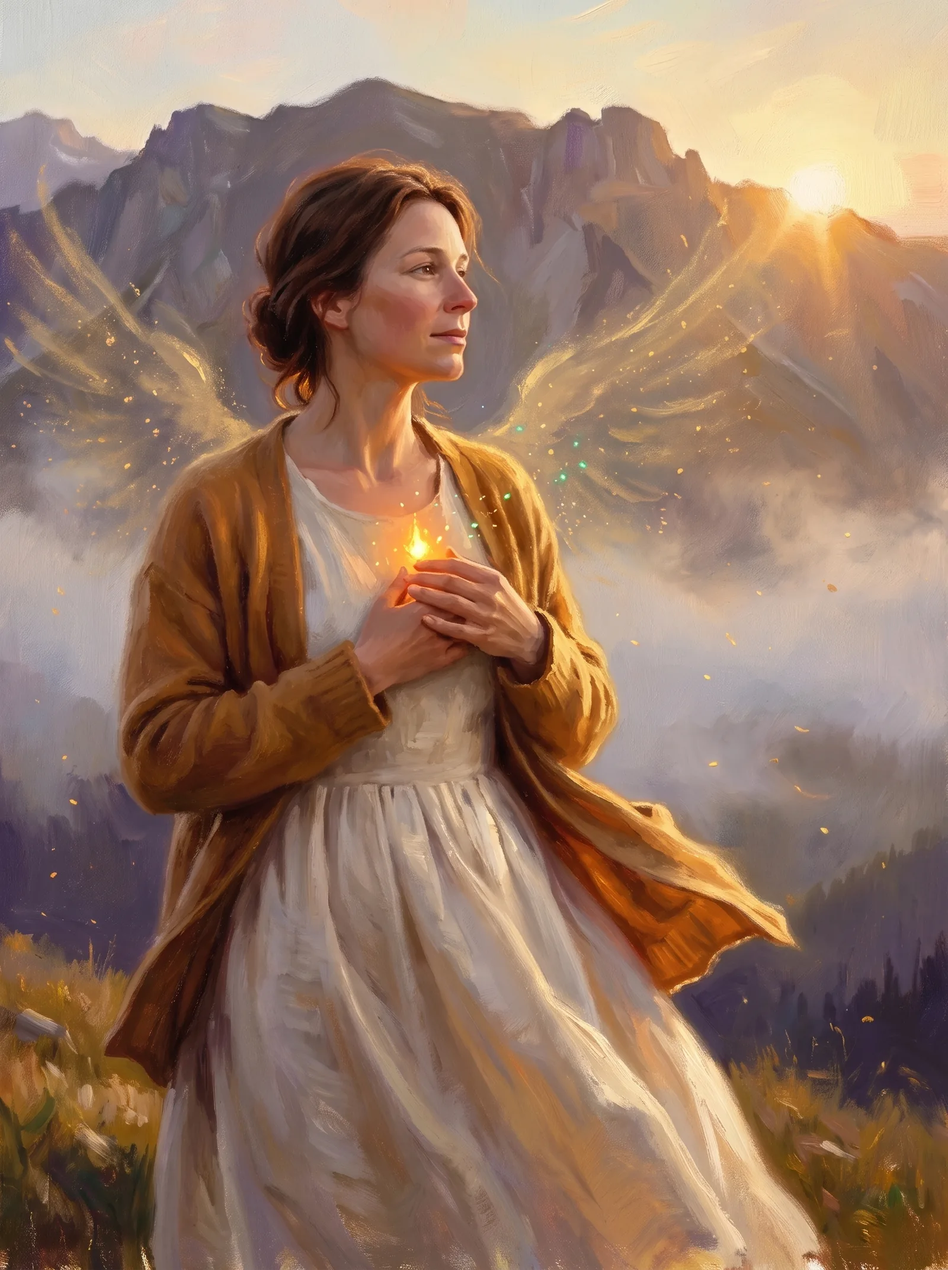
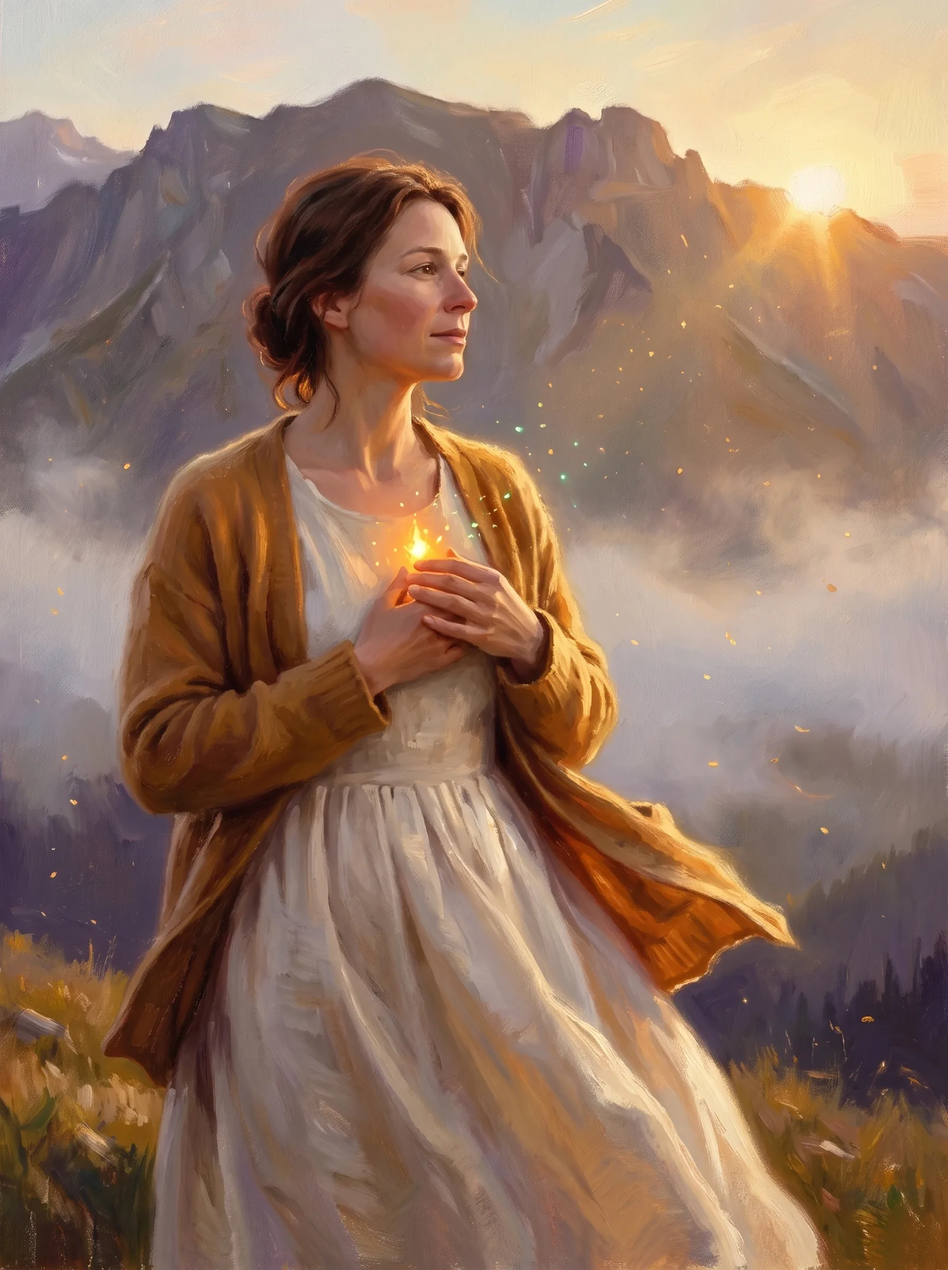
MET-621 · Нова Жена V2.3 · МО3-ризолвър (Opus 4.8) по 4-та дума 13.09 + деплой new-woman
A1 hero-now без криле · A2 будечители по нов ред · A3 Пътят отгоре надолу + пулс + тап-етикет ·
A4 hero на 2 екрана (въпрос+фигура · трите белега като карти) + CTA „Кандидатствайте" ·
A5 циферблатът по СКРОЛ (таймерът махнат) + тап · A6 повече въздух в картите на деня ·
A7 benefit образ · A8 разписанието с 5 образа · A9 БРОЙ десктоп 30 000 ·
A10 формата РЕАЛНА (шев nova-zhena-seam.js v0.2.1 → n8n /webhook/new-woman) · цените СКРИТИ ·
4 варианта без цена + CTA-блок „Попълнете формата и:" + чекбокс „свържете се" · static-checks MED-1 fix.
Деплой: new-woman/index.html (абсолютни /img/ пътища · robots noindex за 3 тестери).
ЧАКА ДУМА (не пипано): „Спирачка" (→ „блукаш"?) · частиковите криле на hero-анимацията.
Verify: Browser pane 390×844 · console 0 · scrollWidth 390 · hero FPS 59.9 · 7 фигури ·
формата→шев payload OK (variant/contact) · reduced 5/5 постери. Ревю 2bcf3fe8 (PASS-WITH-NOTES).

diff --git a/new-woman/index.html b/new-woman/index.html
@@ -500,7 +500,7 @@ footer .sig{font-family:var(--serif);font-size:1.3rem;color:var(--gold);font-sty
       <div class="stage mfig tapable" id="fig-hero" data-bleed="mobile" data-tap>
         <div class="glow"></div>
         <canvas data-фигура="hero" role="img" aria-label="Героинята: от пясъчния часовник на умората към жена с искра в гърдите и криле"></canvas>
-        <img class="poster" src="img/nz3/hero-now.webp" alt="Героинята при първата светлина — с искра в гърдите" width="896" height="1200" hidden decoding="async">
+        <img class="poster" src="/img/nz3/hero-now.webp" alt="Героинята при първата светлина — с искра в гърдите" width="896" height="1200" hidden decoding="async">
         <div class="tap" aria-hidden="true"><i></i><span>докоснете · преди → сега</span></div>
         <div class="toggle" id="hero-toggle" aria-label="Преди и сега"><button data-s="0">Преди</button><button data-s="1" class="on">Сега</button></div>
       </div>
@@ -518,9 +518,9 @@ footer .sig{font-family:var(--serif);font-size:1.3rem;color:var(--gold);font-sty
   <div class="wrap">
     <p class="lead" data-reveal>Три белега на пробуждането:</p>
     <div class="mcards">
-      <div class="mcard" data-reveal><img src="img/nz3/scale-dawn.webp" alt="" width="600" height="600" loading="lazy" decoding="async"><div class="tx"><span class="n">1</span><p><b>Спираме безсмисленото страдание</b> — на себе си и на околните.</p></div></div>
-      <div class="mcard" data-reveal><img src="img/nz3/presence.webp" alt="" width="600" height="600" loading="lazy" decoding="async"><div class="tx"><span class="n">2</span><p><b>Спираме да се дразним, изнервяме и побъркваме</b> от ситуациите.</p></div></div>
-      <div class="mcard" data-reveal><img src="img/nz3/benefit.webp" alt="" width="600" height="600" loading="lazy" decoding="async"><div class="tx"><span class="n">3</span><p><b>Тиха радост</b> през повечето време. <b>Спокойствие</b> — през цялото.</p></div></div>
+      <div class="mcard" data-reveal><img src="/img/nz3/scale-dawn.webp" alt="" width="600" height="600" loading="lazy" decoding="async"><div class="tx"><span class="n">1</span><p><b>Спираме безсмисленото страдание</b> — на себе си и на околните.</p></div></div>
+      <div class="mcard" data-reveal><img src="/img/nz3/presence.webp" alt="" width="600" height="600" loading="lazy" decoding="async"><div class="tx"><span class="n">2</span><p><b>Спираме да се дразним, изнервяме и побъркваме</b> от ситуациите.</p></div></div>
+      <div class="mcard" data-reveal><img src="/img/nz3/benefit.webp" alt="" width="600" height="600" loading="lazy" decoding="async"><div class="tx"><span class="n">3</span><p><b>Тиха радост</b> през повечето време. <b>Спокойствие</b> — през цялото.</p></div></div>
     </div>
   </div>
 </section>
@@ -532,7 +532,7 @@ footer .sig{font-family:var(--serif);font-size:1.3rem;color:var(--gold);font-sty
     <h2 data-reveal>Тя не е спала. <em>Пак.</em></h2>
     <p class="lead" data-reveal>Дразни се от дребните неща. Побърква се от големите. Говори с всички — освен със себе си. Отлага себе си „за по-късно“, а по-късно е студено и на телефон.</p>
     <div class="scene" data-reveal>
-      <img src="img/nz3/hero-before.webp" alt="Жена в 23:41 в тъмна кухня, осветена само от телефона" width="896" height="1195" loading="lazy" decoding="async">
+      <img src="/img/nz3/hero-before.webp" alt="Жена в 23:41 в тъмна кухня, осветена само от телефона" width="896" height="1195" loading="lazy" decoding="async">
     </div>
     <div class="notes" id="notes">
       <div class="note"><span class="dot"></span><span class="t">23:41</span><span class="m">Телефонът свети. Умът не спира.</span></div>
@@ -553,16 +553,16 @@ footer .sig{font-family:var(--serif);font-size:1.3rem;color:var(--gold);font-sty
   <div class="mfig tapable" id="fig-path" data-bleed="always" data-tap>
     <!-- v2.2 · Екран 2 (дума 12.09: „да запазим този ефект … мегаяк и мазен“): картата на осемте етапа ЗАД живия път ·
          същата сцена в стил B (img/nz3/path-poster) · ?map=nz показва оригиналната акварелна карта img/nz/path-8.webp -->
-    <img class="map" id="pathmap" src="img/nz3/path-poster.webp" alt="" width="896" height="1195" loading="lazy" decoding="async" aria-hidden="true">
+    <img class="map" id="pathmap" src="/img/nz3/path-poster.webp" alt="" width="896" height="1195" loading="lazy" decoding="async" aria-hidden="true">
     <div class="mapveil" aria-hidden="true"></div>
     <canvas data-фигура="path" role="img" aria-label="Пътят на героинята: осем златни звезди по пътека нагоре — светват по скрол, искрата върви по пътя"></canvas>
-    <img class="poster" src="img/nz3/path-poster.webp" alt="Осем златни звезди по пътека нагоре над Пирин" width="896" height="1195" hidden loading="lazy" decoding="async">
+    <img class="poster" src="/img/nz3/path-poster.webp" alt="Осем златни звезди по пътека нагоре над Пирин" width="896" height="1195" hidden loading="lazy" decoding="async">
     <div class="stlabs" id="stlabs" aria-hidden="true"></div>
     <div class="tap" aria-hidden="true"><i></i><span>докоснете звезда или име — вижте етапа</span></div>
   </div>
   <div class="wrap">
     <div class="pathgrid">
-      <div class="mapcard" data-reveal="l" aria-hidden="true"><img src="img/nz3/path-poster.webp" alt="" width="896" height="1195" loading="lazy" decoding="async"></div>
+      <div class="mapcard" data-reveal="l" aria-hidden="true"><img src="/img/nz3/path-poster.webp" alt="" width="896" height="1195" loading="lazy" decoding="async"></div>
       <div class="stpanel" id="stpanel" data-reveal>
         <div class="stk"><div class="num" id="st-num">1</div><div><div class="nm" id="st-nm">РазЛичност</div><div class="mn" id="st-mn">се събужда Любка</div></div></div>
         <div class="ln" id="st-ln">„Приета съм такава, каквато съм.“</div>
@@ -582,7 +582,7 @@ footer .sig{font-family:var(--serif);font-size:1.3rem;color:var(--gold);font-sty
   </div>
   <div class="mfig tapable" id="fig-monster" data-bleed="always" data-tap>
     <canvas data-фигура="monster" role="img" aria-label="Трите сенки на Спирачката — вътрешна, външна, философска — се сглобяват по скрол; избраната се разпада в жарава и се събира като следващата"></canvas>
-    <img class="poster" src="img/nz3/monster-poster.webp" alt="Трите сенки на Спирачката" width="896" height="1195" hidden loading="lazy" decoding="async">
+    <img class="poster" src="/img/nz3/monster-poster.webp" alt="Трите сенки на Спирачката" width="896" height="1195" hidden loading="lazy" decoding="async">
     <div class="tap" aria-hidden="true"><i></i><span>докоснете — следващото лице</span></div>
   </div>
   <div class="wrap">
@@ -602,7 +602,7 @@ footer .sig{font-family:var(--serif);font-size:1.3rem;color:var(--gold);font-sty
         <span class="corner c1">✦</span><span class="corner c2">✦</span><span class="corner c3">✦</span><span class="corner c4">✦</span>
         <div class="inner">
           <div class="banner"><span>Чудовището</span></div>
-          <div class="art"><img src="img/nz/card-spirachka.webp" alt="Картата „Спирачката“ от деката" width="597" height="800" loading="lazy" decoding="async"></div>
+          <div class="art"><img src="/img/nz/card-spirachka.webp" alt="Картата „Спирачката“ от деката" width="597" height="800" loading="lazy" decoding="async"></div>
           <div class="body"><h3>Спирачката</h3><div class="rule"></div><p>Светът се мени по-бързо от усещанията ни — старите начини изморяват, а времето не стига.</p></div>
         </div>
       </div>
@@ -623,10 +623,10 @@ footer .sig{font-family:var(--serif);font-size:1.3rem;color:var(--gold);font-sty
   </div>
   <div class="mfig tapable" id="fig-scale" data-bleed="always" data-tap>
     <div class="dial" id="dial" aria-hidden="true">
-      <div class="port"><img class="storm" src="img/nz3/scale-storm.webp" alt="" width="896" height="1195" decoding="async"><img class="dawn" id="sc-dawn" src="img/nz3/scale-dawn.webp" alt="" width="896" height="1195" loading="lazy" decoding="async"></div>
+      <div class="port"><img class="storm" src="/img/nz3/scale-storm.webp" alt="" width="896" height="1195" decoding="async"><img class="dawn" id="sc-dawn" src="/img/nz3/scale-dawn.webp" alt="" width="896" height="1195" loading="lazy" decoding="async"></div>
     </div>
     <canvas data-фигура="dial" role="img" aria-label="Циферблатът на петте стъпала: стрелка от златни частици, искри по дъгата при всяка смяна, буря около циферблата, която става зора"></canvas>
-    <img class="poster" src="img/nz3/scale-dawn.webp" alt="Героинята на зазоряване в планинска поляна" width="896" height="1195" hidden loading="lazy" decoding="async">
+    <img class="poster" src="/img/nz3/scale-dawn.webp" alt="Героинята на зазоряване в планинска поляна" width="896" height="1195" hidden loading="lazy" decoding="async">
     <svg class="dialsvg" id="dialsvg" viewBox="0 0 320 320" aria-hidden="true"><g id="secs"></g></svg>
     <div class="tap" aria-hidden="true"><i></i><span>докоснете — спира · следващо</span></div>
   </div>
@@ -647,49 +647,49 @@ footer .sig{font-family:var(--serif);font-size:1.3rem;color:var(--gold);font-sty
       <div class="deck" data-reveal>
         <span class="corner c1">✦</span><span class="corner c2">✦</span><span class="corner c3">✦</span><span class="corner c4">✦</span>
         <div class="inner"><div class="banner"><span>Целта</span></div>
-        <div class="art"><img src="img/nz/card-vapros.webp" alt="" width="597" height="800" loading="lazy" decoding="async"></div>
+        <div class="art"><img src="/img/nz/card-vapros.webp" alt="" width="597" height="800" loading="lazy" decoding="async"></div>
         <div class="body"><h3>Твоят въпрос</h3><div class="rule"></div><p>„Искам да спя.“ „Искам да не се дразня.“ „Искам да съм себе си.“ — всяка тръгва от своето.</p></div></div>
       </div>
       <div class="deck" data-reveal>
         <span class="corner c1">✦</span><span class="corner c2">✦</span><span class="corner c3">✦</span><span class="corner c4">✦</span>
         <div class="inner"><div class="banner"><span>Чудовището</span></div>
-        <div class="art"><img src="img/nz/card-spirachka.webp" alt="" width="597" height="800" loading="lazy" decoding="async"></div>
+        <div class="art"><img src="/img/nz/card-spirachka.webp" alt="" width="597" height="800" loading="lazy" decoding="async"></div>
         <div class="body"><h3>Спирачката</h3><div class="rule"></div><p>Светът се мени по-бързо от усещанията ни — старите начини изморяват, а времето не стига.</p></div></div>
       </div>
       <div class="deck" data-reveal>
         <span class="corner c1">✦</span><span class="corner c2">✦</span><span class="corner c3">✦</span><span class="corner c4">✦</span>
         <div class="inner"><div class="banner"><span>Спокойният отговор</span></div>
-        <div class="art"><img src="img/nz/card-otgovor.webp" alt="" width="597" height="800" loading="lazy" decoding="async"></div>
+        <div class="art"><img src="/img/nz/card-otgovor.webp" alt="" width="597" height="800" loading="lazy" decoding="async"></div>
         <div class="body"><h3>Числото</h3><div class="rule"></div><p>Пет години по два часа сън — и осем часа след един концертен сеанс. Числото не убеждава. То се случва.</p></div></div>
       </div>
       <div class="deck" data-reveal>
         <span class="corner c1">✦</span><span class="corner c2">✦</span><span class="corner c3">✦</span><span class="corner c4">✦</span>
         <div class="inner"><div class="banner"><span>Цялото</span></div>
-        <div class="art"><img src="img/nz/card-rezultat.webp" alt="" width="597" height="800" loading="lazy" decoding="async"></div>
+        <div class="art"><img src="/img/nz/card-rezultat.webp" alt="" width="597" height="800" loading="lazy" decoding="async"></div>
         <div class="body"><h3>Трупата</h3><div class="rule"></div><p>Осем будители у една жена. Когато всички са будни, тя просто присъства — и всичко се нарежда.</p></div></div>
       </div>
       <div class="deck locked" data-reveal>
         <span class="corner c1">✦</span><span class="corner c2">✦</span><span class="corner c3">✦</span><span class="corner c4">✦</span>
         <div class="inner"><div class="banner"><span>Предизвикателство</span></div>
-        <div class="art"><img src="img/nz/card-zadacha.webp" alt="" width="597" height="800" loading="lazy" decoding="async"><div class="lock">🔒</div><div class="unl">Отключва се на ритрийта</div></div>
+        <div class="art"><img src="/img/nz/card-zadacha.webp" alt="" width="597" height="800" loading="lazy" decoding="async"><div class="lock">🔒</div><div class="unl">Отключва се на ритрийта</div></div>
         <div class="body"><h3>Задачата</h3><div class="rule"></div><p>Едно реално, досадно нещо от седмицата — и една роля, в която го правите иначе.</p></div></div>
       </div>
       <div class="deck locked" data-reveal>
         <span class="corner c1">✦</span><span class="corner c2">✦</span><span class="corner c3">✦</span><span class="corner c4">✦</span>
         <div class="inner"><div class="banner"><span>Прагът</span></div>
-        <div class="art"><img src="img/nz/card-metamozak.webp" alt="" width="597" height="800" loading="lazy" decoding="async"><div class="lock">🔒</div><div class="unl">Отключва се на ритрийта</div></div>
+        <div class="art"><img src="/img/nz/card-metamozak.webp" alt="" width="597" height="800" loading="lazy" decoding="async"><div class="lock">🔒</div><div class="unl">Отключва се на ритрийта</div></div>
         <div class="body"><h3>Присъствието</h3><div class="rule"></div><p>Пет портала на дишането до „сега“. Умът замлъква за миг. После за два.</p></div></div>
       </div>
       <div class="deck locked" data-reveal>
         <span class="corner c1">✦</span><span class="corner c2">✦</span><span class="corner c3">✦</span><span class="corner c4">✦</span>
         <div class="inner"><div class="banner"><span>Съкровището</span></div>
-        <div class="art"><img src="img/nz/card-sakrovishte.webp" alt="" width="597" height="800" loading="lazy" decoding="async"><div class="lock">🔒</div><div class="unl">Отключва се на ритрийта</div></div>
+        <div class="art"><img src="/img/nz/card-sakrovishte.webp" alt="" width="597" height="800" loading="lazy" decoding="async"><div class="lock">🔒</div><div class="unl">Отключва се на ритрийта</div></div>
         <div class="body"><h3>Дарът</h3><div class="rule"></div><p>Това, което носите у дома. Не е записка. Ритъм е.</p></div></div>
       </div>
       <div class="deck locked" data-reveal>
         <span class="corner c1">✦</span><span class="corner c2">✦</span><span class="corner c3">✦</span><span class="corner c4">✦</span>
         <div class="inner"><div class="banner"><span>Еликсирът</span></div>
-        <div class="art"><img src="img/nz/card-eliksir.webp" alt="" width="597" height="800" loading="lazy" decoding="async"><div class="lock">🔒</div><div class="unl">Последната карта · във формата</div></div>
+        <div class="art"><img src="/img/nz/card-eliksir.webp" alt="" width="597" height="800" loading="lazy" decoding="async"><div class="lock">🔒</div><div class="unl">Последната карта · във формата</div></div>
         <div class="body"><h3>Поканата</h3><div class="rule"></div><p>Последната карта се отключва с формата в края на страницата.</p></div></div>
       </div>
     </div>
@@ -710,10 +710,10 @@ footer .sig{font-family:var(--serif);font-size:1.3rem;color:var(--gold);font-sty
              сцената на частиците е ПОД пръстена и НАД образа · картите на моментите долу са скрити и се обръщат -->
         <div class="mfig tapable" id="fig-clock" data-bleed="always" data-tap>
           <div class="clockimg" id="clockimg" aria-hidden="true"><div class="center" id="ccenter">
-            <img src="img/nz3/troupe.webp" alt="" width="1200" height="900" decoding="async" class="on">
-            <img src="img/nz3/concert.webp" alt="" width="1200" height="900" loading="lazy" decoding="async">
-            <img src="img/nz3/transition.webp" alt="" width="1200" height="900" loading="lazy" decoding="async">
-            <img src="img/nz3/presence.webp" alt="" width="896" height="1195" loading="lazy" decoding="async">
+            <img src="/img/nz3/troupe.webp" alt="" width="1200" height="900" decoding="async" class="on">
+            <img src="/img/nz3/concert.webp" alt="" width="1200" height="900" loading="lazy" decoding="async">
+            <img src="/img/nz3/transition.webp" alt="" width="1200" height="900" loading="lazy" decoding="async">
+            <img src="/img/nz3/presence.webp" alt="" width="896" height="1195" loading="lazy" decoding="async">
           </div></div>
           <canvas data-фигура="clock" role="img" aria-label="Часовникът на деня: златен пръстен, по който слънцето и едно златно зърно минават от момент към момент; концентрични кръгове светят върху образа"></canvas>
           <div class="clock" id="clock">
@@ -728,10 +728,10 @@ footer .sig{font-family:var(--serif);font-size:1.3rem;color:var(--gold);font-sty
         <div class="clabel" aria-live="polite"><div class="tm" id="cl-tm">Следобед · Трупата</div></div>
       </div>
       <div class="moments" id="moments">
-        <div class="mo" data-i="0"><div class="inner"><div class="back" aria-hidden="true"><img src="img/nz/deck-back.webp" alt="" width="720" height="894" loading="lazy" decoding="async"><span class="cue">докоснете — обърнете</span></div><div class="front"><div class="tm">Следобед · Трупата</div><h3>Влизане в образ</h3><p>Избирате си име, роля и ментор. Ролята пази — в нея смеете повече, отколкото „Вие“.</p></div></div></div>
-        <div class="mo" data-i="1"><div class="inner"><div class="back" aria-hidden="true"><img src="img/nz/deck-back.webp" alt="" width="720" height="894" loading="lazy" decoding="async"><span class="cue">докоснете — обърнете</span></div><div class="front"><div class="tm">Вечер · Концертен сеанс</div><h3>Класика и Моцарт</h3><p>Водещият чете сценария, Вие следите текста — после само музиката. Нищо не се учи. Всичко остава.</p></div></div></div>
-        <div class="mo" data-i="2"><div class="inner"><div class="back" aria-hidden="true"><img src="img/nz/deck-back.webp" alt="" width="720" height="894" loading="lazy" decoding="async"><span class="cue">докоснете — обърнете</span></div><div class="front"><div class="tm">Сутрин · Преходът на Творея</div><h3>Мурата · Рибно езеро · дивите коне</h3><p>Час и половина в тишина: най-старото дърво в Пирин, огледалото на езерото, конете. Онлайн — Вашата разходка със същата тишина.</p></div></div></div>
-        <div class="mo" data-i="3"><div class="inner"><div class="back" aria-hidden="true"><img src="img/nz/deck-back.webp" alt="" width="720" height="894" loading="lazy" decoding="async"><span class="cue">докоснете — обърнете</span></div><div class="front"><div class="tm">Всеки ден · Присъствие</div><h3>Слизане в Присъствие</h3><p>Пет портала на дишането до „сега“. Умът замлъква за миг, после за два. Тук се мери пробуждането — не в тест, а в дъх.</p></div></div></div>
+        <div class="mo" data-i="0"><div class="inner"><div class="back" aria-hidden="true"><img src="/img/nz/deck-back.webp" alt="" width="720" height="894" loading="lazy" decoding="async"><span class="cue">докоснете — обърнете</span></div><div class="front"><div class="tm">Следобед · Трупата</div><h3>Влизане в образ</h3><p>Избирате си име, роля и ментор. Ролята пази — в нея смеете повече, отколкото „Вие“.</p></div></div></div>
+        <div class="mo" data-i="1"><div class="inner"><div class="back" aria-hidden="true"><img src="/img/nz/deck-back.webp" alt="" width="720" height="894" loading="lazy" decoding="async"><span class="cue">докоснете — обърнете</span></div><div class="front"><div class="tm">Вечер · Концертен сеанс</div><h3>Класика и Моцарт</h3><p>Водещият чете сценария, Вие следите текста — после само музиката. Нищо не се учи. Всичко остава.</p></div></div></div>
+        <div class="mo" data-i="2"><div class="inner"><div class="back" aria-hidden="true"><img src="/img/nz/deck-back.webp" alt="" width="720" height="894" loading="lazy" decoding="async"><span class="cue">докоснете — обърнете</span></div><div class="front"><div class="tm">Сутрин · Преходът на Творея</div><h3>Мурата · Рибно езеро · дивите коне</h3><p>Час и половина в тишина: най-старото дърво в Пирин, огледалото на езерото, конете. Онлайн — Вашата разходка със същата тишина.</p></div></div></div>
+        <div class="mo" data-i="3"><div class="inner"><div class="back" aria-hidden="true"><img src="/img/nz/deck-back.webp" alt="" width="720" height="894" loading="lazy" decoding="async"><span class="cue">докоснете — обърнете</span></div><div class="front"><div class="tm">Всеки ден · Присъствие</div><h3>Слизане в Присъствие</h3><p>Пет портала на дишането до „сега“. Умът замлъква за миг, после за два. Тук се мери пробуждането — не в тест, а в дъх.</p></div></div></div>
       </div>
     </div>
 
@@ -739,7 +739,7 @@ footer .sig{font-family:var(--serif);font-size:1.3rem;color:var(--gold);font-sty
       <div class="kicker" style="color:var(--em)">Истинската полза</div>
       <div class="big">Идват „да станат по-умни“. Остават заради друго.</div>
       <p style="margin-top:8px;font-size:.95rem">Измерените показатели наистина растат — средно около три пъти: четене, памет, концентрация. Повечето жени казват, че това е най-малката полза. Истинската:</p>
-      <img src="img/nz3/benefit.webp" alt="Истинската полза — спокойствие и автентичност" style="width:100%;aspect-ratio:4/3;object-fit:cover;border-radius:14px;margin:14px 0 6px;display:block;border:1px solid rgba(232,199,126,.25)" width="1200" height="900" loading="lazy" decoding="async">
+      <img src="/img/nz3/benefit.webp" alt="Истинската полза — спокойствие и автентичност" style="width:100%;aspect-ratio:4/3;object-fit:cover;border-radius:14px;margin:14px 0 6px;display:block;border:1px solid rgba(232,199,126,.25)" width="1200" height="900" loading="lazy" decoding="async">
       <ul>
         <li>нов начин на комуникация <b>със себе си</b></li>
         <li>автентично „аз“ — без роля за пред другите</li>
@@ -751,7 +751,7 @@ footer .sig{font-family:var(--serif);font-size:1.3rem;color:var(--gold);font-sty
     </div>
 
     <div class="leader">
-      <div class="ph" data-reveal="l"><img src="img/nz/vodach.webp" alt="Димитър Караманчев — водещ на „Нова Жена“" width="900" height="1125" loading="lazy" decoding="async"></div>
+      <div class="ph" data-reveal="l"><img src="/img/nz/vodach.webp" alt="Димитър Караманчев — водещ на „Нова Жена“" width="900" height="1125" loading="lazy" decoding="async"></div>
       <div data-reveal="r">
         <div class="nm">Димитър Караманчев</div>
         <div class="rl">Сугестопедагог · последната група, обучена лично от проф. д-р Георги Лозанов</div>
@@ -770,18 +770,18 @@ footer .sig{font-family:var(--serif);font-size:1.3rem;color:var(--gold);font-sty
     <p class="lead" data-reveal>Курсистка, която пет години не е спала повече от два часа на нощ. След концертния сеанс с Моцарт — осем часа. Чуйте я — и хората около нея.</p>
     <div class="vgrid">
       <div class="vf" data-yt="PLa6RTOYvsA" data-reveal>
-        <img src="img/nz/yt-anchor.webp" alt="Видео: Метаритрийти в сърцето на Пирин" width="1280" height="720" loading="lazy" decoding="async">
+        <img src="/img/nz/yt-anchor.webp" alt="Видео: Метаритрийти в сърцето на Пирин" width="1280" height="720" loading="lazy" decoding="async">
         <div class="play">▶</div>
         <div class="cap">▶ Метаритрийти в сърцето на Пирин · реални курсисти</div>
       </div>
       <div class="vf small" data-yt="0EAgnm1CqxE" data-reveal>
-        <img src="img/nz/yt-second.webp" alt="Видео: просто, приказно и пречистващо преживяване" width="1280" height="720" loading="lazy" decoding="async">
+        <img src="/img/nz/yt-second.webp" alt="Видео: просто, приказно и пречистващо преживяване" width="1280" height="720" loading="lazy" decoding="async">
         <div class="play">▶</div>
         <div class="cap">▶ Просто, приказно и пречистващо преживяване</div>
       </div>
     </div>
     <div class="sleep" data-reveal>
-      <img src="img/nz3/sleep-dawn.webp" alt="Спокоен сън в планинска стая на зазоряване" width="896" height="1195" loading="lazy" decoding="async">
+      <img src="/img/nz3/sleep-dawn.webp" alt="Спокоен сън в планинска стая на зазоряване" width="896" height="1195" loading="lazy" decoding="async">
       <div><div class="n">2 ч → 8 ч <small>сън</small></div><p style="font-size:.9rem;margin-top:4px">Числото не убеждава. То се случва — след един концертен сеанс.</p></div>
     </div>
   </div>
@@ -799,14 +799,14 @@ footer .sig{font-family:var(--serif);font-size:1.3rem;color:var(--gold);font-sty
        златна нишка покрай петте слота · слънцето слиза по нея по скрол · свети до текущия слот · тап на слот = скок · влачене по нишката -->
   <div class="mfig tapable" id="fig-sun" data-bleed="always" data-tap data-height="auto">
     <canvas data-фигура="thread" role="img" aria-label="Златната нишка на деня: слънцето слиза по нея от 15:30 до 20:00 и свети до текущия момент — по скрол, или го водите с пръст"></canvas>
-    <img class="poster" src="img/nz3/dawn-wide.webp" alt="Изгрев над Пирин" width="1600" height="900" hidden loading="lazy" decoding="async">
+    <img class="poster" src="/img/nz3/dawn-wide.webp" alt="Изгрев над Пирин" width="1600" height="900" hidden loading="lazy" decoding="async">
     <div class="wrap">
     <div class="slots" id="slots">
-      <div class="slot" data-p="0"><div class="t">15:30</div><div><div class="w">Влизане в образ</div><div class="c"><span class="live">Трупата се събира в залата в Банско.</span><span class="online">В Zoom — с включена камера, в своя образ.</span></div></div><img class="si" src="img/nz3/troupe.webp" alt="" width="96" height="96" loading="lazy" decoding="async"></div>
-      <div class="slot" data-p="0.25"><div class="t">16:00</div><div><div class="w">Сеанс и игра · метаезикът на живо</div><div class="c"><span class="live">Карти, сценарий, роли — на маса, заедно.</span><span class="online">Същите карти на екрана — играете от мястото си.</span></div></div><img class="si" src="img/nz3/presence.webp" alt="" width="96" height="96" loading="lazy" decoding="async"></div>
-      <div class="slot dinner" data-p="0.48"><div class="t">17:30</div><div><div class="w">Вечеря · заедно, без телефони</div><div class="c"><span class="live">До 18:30 — на една маса, в Банско.</span><span class="online">До 18:30 — вечеряте у дома, камерата почива.</span></div></div><img class="si" src="img/nz3/transition.webp" alt="" width="96" height="96" loading="lazy" decoding="async"></div>
-      <div class="slot" data-p="0.72"><div class="t">18:30</div><div><div class="w">Концертен сеанс · класика и Моцарт</div><div class="c"><span class="live">На живо, на свещи, в залата.</span><span class="online">Слушалки, приглушена лампа, текстът пред Вас.</span></div></div><img class="si" src="img/nz3/concert.webp" alt="" width="96" height="96" loading="lazy" decoding="async"></div>
-      <div class="slot" data-p="1"><div class="t">20:00</div><div><div class="w">Край · и тишина до сутринта</div><div class="c"><span class="live">Сутрините са за преходите: езерото, мурата, конете.</span><span class="online">Сутрините са Ваши — със същата тишина.</span></div></div><img class="si" src="img/nz3/sleep-dawn.webp" alt="" width="96" height="96" loading="lazy" decoding="async"></div>
+      <div class="slot" data-p="0"><div class="t">15:30</div><div><div class="w">Влизане в образ</div><div class="c"><span class="live">Трупата се събира в залата в Банско.</span><span class="online">В Zoom — с включена камера, в своя образ.</span></div></div><img class="si" src="/img/nz3/troupe.webp" alt="" width="96" height="96" loading="lazy" decoding="async"></div>
+      <div class="slot" data-p="0.25"><div class="t">16:00</div><div><div class="w">Сеанс и игра · метаезикът на живо</div><div class="c"><span class="live">Карти, сценарий, роли — на маса, заедно.</span><span class="online">Същите карти на екрана — играете от мястото си.</span></div></div><img class="si" src="/img/nz3/presence.webp" alt="" width="96" height="96" loading="lazy" decoding="async"></div>
+      <div class="slot dinner" data-p="0.48"><div class="t">17:30</div><div><div class="w">Вечеря · заедно, без телефони</div><div class="c"><span class="live">До 18:30 — на една маса, в Банско.</span><span class="online">До 18:30 — вечеряте у дома, камерата почива.</span></div></div><img class="si" src="/img/nz3/transition.webp" alt="" width="96" height="96" loading="lazy" decoding="async"></div>
+      <div class="slot" data-p="0.72"><div class="t">18:30</div><div><div class="w">Концертен сеанс · класика и Моцарт</div><div class="c"><span class="live">На живо, на свещи, в залата.</span><span class="online">Слушалки, приглушена лампа, текстът пред Вас.</span></div></div><img class="si" src="/img/nz3/concert.webp" alt="" width="96" height="96" loading="lazy" decoding="async"></div>
+      <div class="slot" data-p="1"><div class="t">20:00</div><div><div class="w">Край · и тишина до сутринта</div><div class="c"><span class="live">Сутрините са за преходите: езерото, мурата, конете.</span><span class="online">Сутрините са Ваши — със същата тишина.</span></div></div><img class="si" src="/img/nz3/sleep-dawn.webp" alt="" width="96" height="96" loading="lazy" decoding="async"></div>
     </div>
     </div>
     <div class="tap" aria-hidden="true"><i></i><span>докоснете слънцето</span></div>
@@ -838,7 +838,7 @@ footer .sig{font-family:var(--serif);font-size:1.3rem;color:var(--gold);font-sty
       <div class="deck eli" data-reveal="l">
         <span class="corner c1">✦</span><span class="corner c2">✦</span><span class="corner c3">✦</span><span class="corner c4">✦</span>
         <div class="inner"><div class="banner"><span>Еликсирът</span></div>
-        <div class="art"><img src="img/nz/card-eliksir.webp" alt="" width="536" height="800" loading="lazy" decoding="async"></div>
+        <div class="art"><img src="/img/nz/card-eliksir.webp" alt="" width="536" height="800" loading="lazy" decoding="async"></div>
         <div class="body"><h3>Поканата</h3><div class="rule"></div><p>Пет дни, дванайсет месеца клубни срещи и една трупа, която остава с Вас.</p></div></div>
       </div>
       <div class="fcard" id="fcard" data-reveal="r">
@@ -1062,7 +1062,7 @@ footer .sig{font-family:var(--serif);font-size:1.3rem;color:var(--gold);font-sty
 
 <!-- ═══ 11 · ПРЕДЛОЖЕНИЕ ═══ -->
 <section class="offer" id="offer">
-  <div class="bgw" aria-hidden="true"><img src="img/nz3/hero-wide.webp" alt="" width="1600" height="900" loading="lazy" decoding="async"></div>
+  <div class="bgw" aria-hidden="true"><img src="/img/nz3/hero-wide.webp" alt="" width="1600" height="900" loading="lazy" decoding="async"></div>
   <div class="wrap">
     <div class="kicker" data-reveal>Предложението</div>
     <h2 data-reveal>Пълната програма <em>„Нова Жена“</em></h2>
@@ -2232,7 +2232,7 @@ footer .sig{font-family:var(--serif);font-size:1.3rem;color:var(--gold);font-sty
   $('#st-next').addEventListener('click',()=>{pathDrv.тап(cur+1); видяно('#fig-path')});
   LAB.forEach((d,i)=>d.addEventListener('click',e=>{e.stopPropagation(); pathDrv.тап(i); видяно('#fig-path')}));  /* v2.3: тап на етикет отваря етапа */
   setSt(0);
-  if(/[?&]map=nz/.test(location.search)){ const pm=$('#pathmap'); pm.src='img/nz/path-8.webp'; $$('.mapcard img').forEach(i=>i.src='img/nz/path-8.webp') } /* v2.2 · сравнение за ЧАКА ДУМА (Екран 2) */
+  if(/[?&]map=nz/.test(location.search)){ const pm=$('#pathmap'); pm.src='/img/nz/path-8.webp'; $$('.mapcard img').forEach(i=>i.src='/img/nz/path-8.webp') } /* v2.2 · сравнение за ЧАКА ДУМА (Екран 2) */
   /* етикетите до звездите · позиции от двигателя · само когато кадърът се смени */
   let labKey='';
   function placeLabels(ф){
